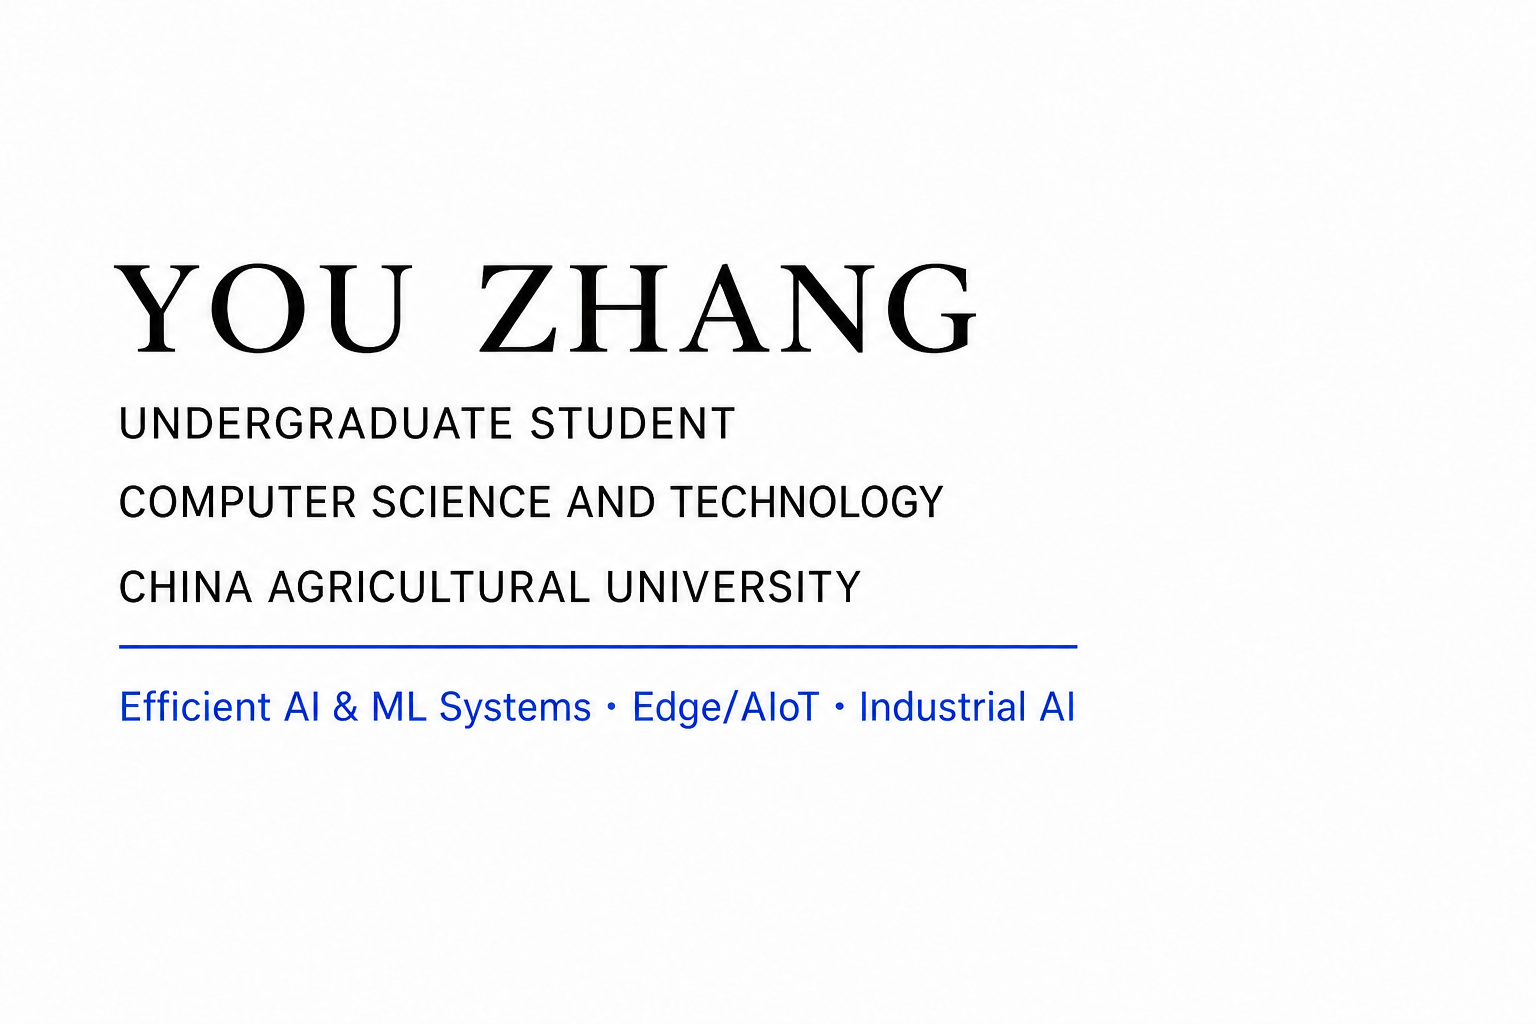
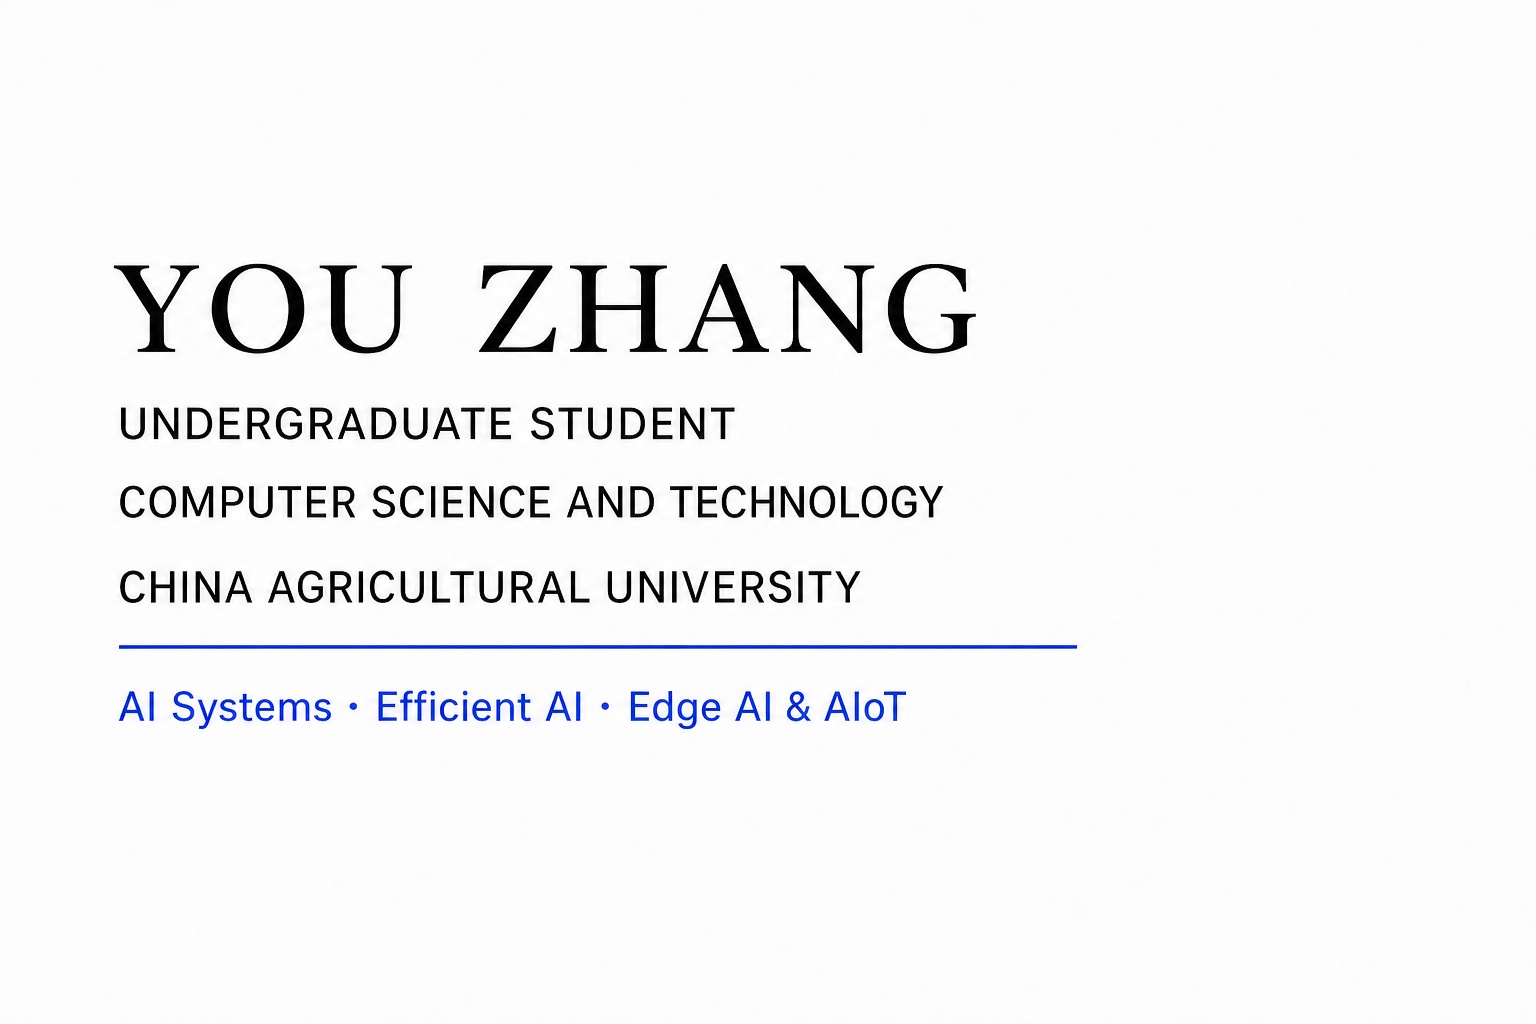
Refine academic focus and work experience

diff --git a/index.html b/index.html
@@ -4,7 +4,7 @@
     <meta charset="utf-8" />
     <meta name="viewport" content="width=device-width, initial-scale=1" />
     <title>You Zhang</title>
-    <meta name="description" content="Academic homepage of You Zhang, an undergraduate student in Computer Science and Technology at China Agricultural University." />
+    <meta name="description" content="Academic homepage of You Zhang, featuring work in AI systems, efficient AI, edge AI, and AIoT." />
     <meta name="author" content="You Zhang" />
     <meta name="theme-color" content="#ffffff" />
     <link rel="canonical" href="https://iyoyovo.github.io/" />
@@ -12,7 +12,7 @@
     <link rel="stylesheet" href="styles.css" />
     <meta property="og:type" content="website" />
     <meta property="og:title" content="You Zhang" />
-    <meta property="og:description" content="Undergraduate student in Computer Science and Technology at China Agricultural University." />
+    <meta property="og:description" content="AI systems, efficient AI, edge AI, and AIoT." />
     <meta property="og:url" content="https://iyoyovo.github.io/" />
     <meta property="og:image" content="https://iyoyovo.github.io/og.png" />
     <script defer src="script.js"></script>
@@ -49,16 +49,16 @@
               <a href="cv_youzhang.pdf" target="_blank" rel="noreferrer">CV</a>
             </p>
             <div class="intro-copy">
-              <p>I am an undergraduate student in Computer Science and Technology at China Agricultural University, expecting to graduate in 2027. My current interests lie in efficient artificial intelligence and machine learning systems, particularly their applications in edge intelligence, AIoT, and industrial settings.</p>
+              <p>I am an undergraduate student in Computer Science and Technology at China Agricultural University, expecting to graduate in 2027. My current interests center on AI systems and efficient AI, particularly efficient inference and the deployment of machine learning models on resource-constrained devices, edge platforms, and AIoT systems.</p>
             </div>
-            <p class="focus-line"><strong>Current interests:</strong> Efficient AI &amp; ML Systems · Edge/AIoT · Industrial AI</p>
+            <p class="focus-line"><strong>Current interests:</strong> AI Systems · Efficient AI · Edge AI &amp; AIoT</p>
           </div>
         </section>
 
         <section class="academic-section" id="about">
           <h2>About Me</h2>
           <p>At this stage, I am building my foundations through coursework, research and project-based practice, and independent reading. I am especially interested in how machine learning models can be translated into applications that run efficiently on real-world devices and systems.</p>
-          <p>My recent work spans empirical LLM evaluation and decentralized multi-agent reinforcement learning. Across these projects, I aim to combine careful experimental design with systems implementation.</p>
+          <p>My academic interests center on AI systems and efficient AI, with particular attention to inference frameworks, model optimization, and hardware-aware deployment. I am also interested in edge AI and AIoT as practical settings for systems-oriented machine learning.</p>
           <p>I enjoy implementing the methods I learn as working experiments and prototypes, while documenting the problems and observations that arise during the process.</p>
         </section>
 
@@ -79,9 +79,9 @@
         <section class="academic-section" id="interests">
           <h2>Academic Interests</h2>
           <ul class="interest-list">
-            <li><strong>Efficient AI</strong><span>Model compression, quantization, lightweight neural networks, and efficient inference for resource-constrained devices.</span></li>
-            <li><strong>ML Systems and Edge AI</strong><span>Inference frameworks, runtime optimization, resource scheduling, model serving, and edge–cloud collaboration.</span></li>
-            <li><strong>AIoT and Industrial AI</strong><span>Deployment and application of machine learning models in intelligent devices, sensing systems, and industrial settings.</span></li>
+            <li><strong>AI Systems</strong><span>Systems support for the efficient development, evaluation, and deployment of machine learning models, including inference frameworks and runtime optimization.</span></li>
+            <li><strong>Efficient AI</strong><span>Model compression, quantization, lightweight neural networks, and hardware-aware inference under compute and memory constraints.</span></li>
+            <li><strong>Edge AI and AIoT</strong><span>Deployment of machine learning models on edge devices and intelligent sensing systems, with attention to resource efficiency and real-world reliability.</span></li>
           </ul>
         </section>
 
@@ -124,12 +124,13 @@
         </section>
 
         <section class="academic-section" id="experience">
-          <h2>Industry Experience</h2>
+          <h2>Work Experience</h2>
+          <h3 class="experience-company">360 Digital Security Group</h3>
           <div class="entry-list project-list">
             <article class="entry project-entry">
               <time>Jul–Aug 2026</time>
               <div>
-                <h3>360 Digital Security Group · AI Application Development Intern</h3>
+                <h3>AI Application Development Intern</h3>
                 <p class="project-meta">Qwen-VL-Based Visual Data Pre-Annotation Pipeline</p>
                 <ul class="entry-bullets">
                   <li>Built a Qwen-VL-based object-detection pre-annotation pipeline with API integration, prompt and structured-output design, coordinate conversion, result parsing, visual verification, and COCO-format annotation generation.</li>
@@ -140,7 +141,7 @@
             <article class="entry project-entry">
               <time>Jan–Mar 2026</time>
               <div>
-                <h3>360 Digital Security Group · AI Engineering Intern (Computer Vision &amp; Edge Deployment)</h3>
+                <h3>AI Engineering Intern (Computer Vision &amp; Edge Deployment)</h3>
                 <p class="project-meta">Objects365-Based YOLOv8 Object Detection and NCNN Inference Pipeline</p>
                 <ul class="entry-bullets">
                   <li>Built a data-processing pipeline for a 50-class detection task that screened and processed more than 460,000 Objects365 v1 images, including class mapping, anomalous-data filtering, COCO-to-YOLO conversion, and visual verification.</li>
@@ -179,7 +180,7 @@
           <a href="#about-zh">关于</a>
           <a href="#education-zh">教育</a>
           <a href="#research-zh">科研</a>
-          <a href="#experience-zh">实习</a>
+          <a href="#experience-zh">工作</a>
           <a href="#skills-zh">技能</a>
           <a href="#contact-zh">联系</a>
           <button type="button" data-language-toggle="en" aria-label="切换至英文主页">English</button>
@@ -203,16 +204,16 @@
               <a href="cv_youzhang.pdf" target="_blank" rel="noreferrer">简历</a>
             </p>
             <div class="intro-copy">
-              <p>我是中国农业大学计算机科学与技术专业本科生，预计于2027年毕业。我目前关注高效人工智能与机器学习系统，尤其是它们在边缘智能、AIoT和工业场景中的应用。</p>
+              <p>我是中国农业大学计算机科学与技术专业本科生，预计于2027年毕业。我目前关注AI系统与高效AI，尤其是机器学习模型在资源受限设备、边缘平台和AIoT系统中的高效推理与部署。</p>
             </div>
-            <p class="focus-line"><strong>当前兴趣：</strong> Efficient AI &amp; ML Systems · Edge/AIoT · Industrial AI</p>
+            <p class="focus-line"><strong>当前兴趣：</strong> AI Systems · Efficient AI · Edge AI &amp; AIoT</p>
           </div>
         </section>
 
         <section class="academic-section" id="about-zh">
           <h2>关于我</h2>
           <p>现阶段，我主要通过课程、科研与项目实践和自主阅读积累基础。我对如何将机器学习模型转化为能够在真实设备和系统中高效运行的应用尤其感兴趣。</p>
-          <p>近期工作涉及大语言模型实证评测和去中心化多智能体强化学习。在这些项目中，我希望将严谨的实验设计与系统实现结合起来。</p>
+          <p>我的学术兴趣主要集中在AI系统与高效AI，尤其关注推理框架、模型优化和硬件感知部署。我也关注边缘AI与AIoT，将其作为系统化机器学习方法的重要应用场景。</p>
           <p>我喜欢将学到的方法实现为可以运行的实验和原型，并记录实现过程中的问题与思考。</p>
         </section>
 
@@ -233,9 +234,9 @@
         <section class="academic-section" id="interests-zh">
           <h2>学术兴趣</h2>
           <ul class="interest-list">
-            <li><strong>Efficient AI</strong><span>模型压缩、量化、轻量化网络，以及面向资源受限设备的高效推理。</span></li>
-            <li><strong>ML Systems与Edge AI</strong><span>推理框架、运行时优化、资源调度、模型服务与边云协同。</span></li>
-            <li><strong>AIoT与Industrial AI</strong><span>机器学习模型在智能设备、传感系统和工业场景中的部署与应用。</span></li>
+            <li><strong>AI系统</strong><span>面向机器学习模型高效开发、评测与部署的系统支持，包括推理框架与运行时优化。</span></li>
+            <li><strong>高效AI</strong><span>模型压缩、量化、轻量化网络，以及计算和内存约束下的硬件感知推理。</span></li>
+            <li><strong>边缘AI与AIoT</strong><span>机器学习模型在边缘设备与智能感知系统中的部署，关注资源效率与真实场景可靠性。</span></li>
           </ul>
         </section>
 
@@ -278,12 +279,13 @@
         </section>
 
         <section class="academic-section" id="experience-zh">
-          <h2>实习经历</h2>
+          <h2>工作经历</h2>
+          <h3 class="experience-company">三六零数字安全科技集团有限公司</h3>
           <div class="entry-list project-list">
             <article class="entry project-entry">
               <time>2026.07–2026.08</time>
               <div>
-                <h3>三六零数字安全科技集团有限公司 · AI应用开发实习生</h3>
+                <h3>AI应用开发实习生</h3>
                 <p class="project-meta">基于Qwen-VL的视觉数据预标注流程</p>
                 <ul class="entry-bullets">
                   <li>构建基于Qwen-VL的目标检测预标注流程，完成API接入、提示词与结构化输出设计、坐标转换、结果解析、可视化核验和COCO格式标注生成。</li>
@@ -294,7 +296,7 @@
             <article class="entry project-entry">
               <time>2026.01–2026.03</time>
               <div>
-                <h3>三六零数字安全科技集团有限公司 · AI工程实习生（计算机视觉与端侧部署）</h3>
+                <h3>AI工程实习生（计算机视觉与端侧部署）</h3>
                 <p class="project-meta">基于Objects365的YOLOv8目标检测与NCNN推理链路</p>
                 <ul class="entry-bullets">
                   <li>面向50类目标检测任务构建数据处理流水线，筛选并处理46万余张Objects365 v1图像，完成类别映射、异常数据过滤、COCO到YOLO标注转换及可视化核验。</li>

diff --git a/styles.css b/styles.css
@@ -241,6 +241,11 @@ button:focus-visible {
   font-style: italic;
 }
 
+.experience-company {
+  font-size: 15px;
+  margin: 4px 0 2px 172px;
+}
+
 .entry-bullets {
   margin: 7px 0 0;
   padding-left: 20px;
@@ -319,6 +324,10 @@ button:focus-visible {
   .entry {
     gap: 8px;
     grid-template-columns: 1fr;
+  }
+
+  .experience-company {
+    margin-left: 0;
   }
 
   .interest-list li {
